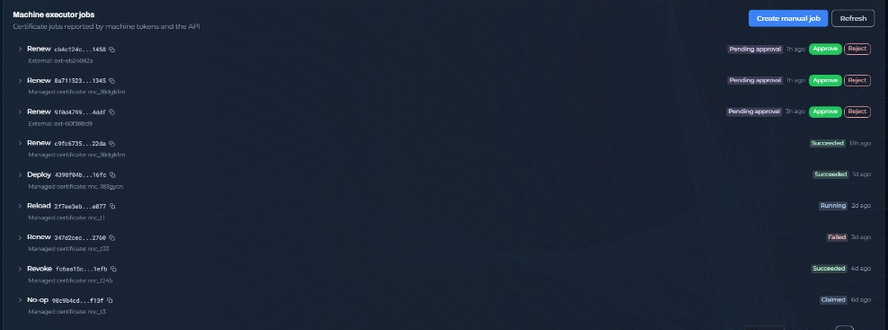
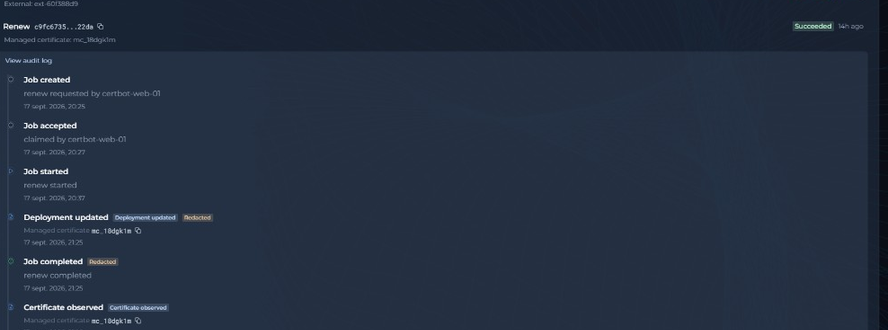
docs(readme): replace CertOps jobs screenshot with timeline evidence

diff --git a/README.md b/README.md
@@ -80,8 +80,8 @@ An outbound-only agent renews, deploys, reloads, and verifies certificates on yo
       <br /><sub>Upcoming renewals and profiles</sub>
     </td>
     <td align="center" width="33%">
-      <img src="docs/assets/certops-jobs.png" alt="Machine executor jobs with pending approvals" />
-      <br /><sub>Executor jobs with approval gates</sub>
+      <img src="docs/assets/certops-jobs.png" alt="Succeeded renew job with audit-log timeline evidence" />
+      <br /><sub>Executor jobs with timeline evidence</sub>
     </td>
     <td align="center" width="33%">
       <img src="docs/assets/certops-agents.png" alt="Agent fleet health and signing keys" />
